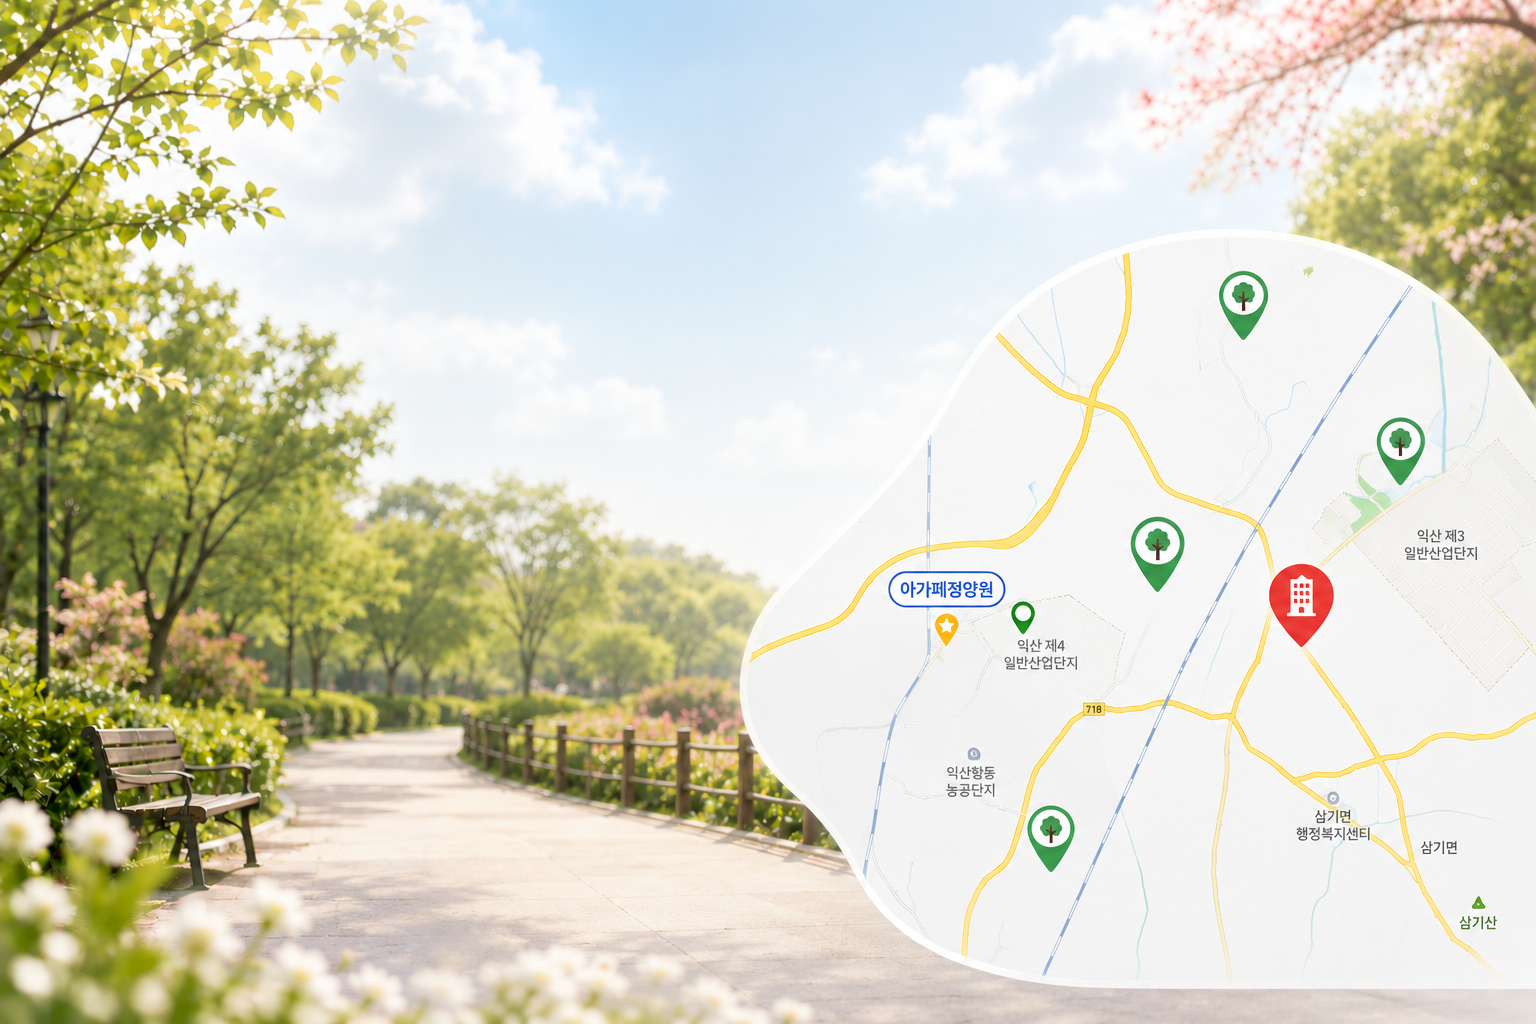
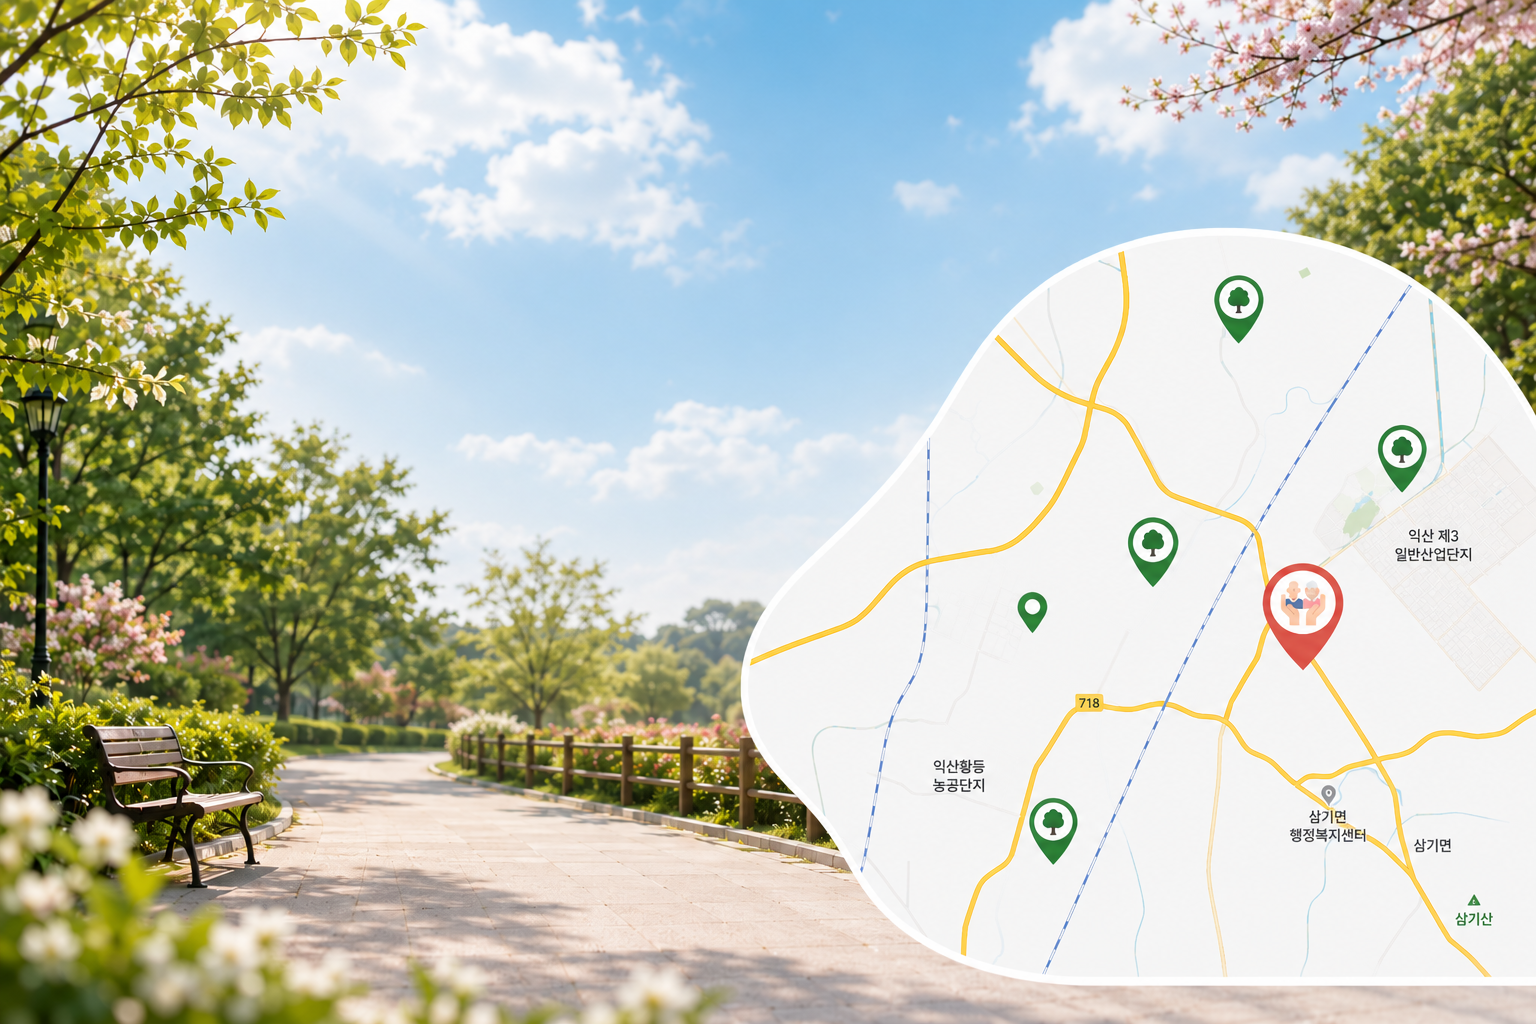
feat/#34

diff --git a/neulbomgil-frontend/src/pages/Home.jsx b/neulbomgil-frontend/src/pages/Home.jsx
@@ -1,17 +1,17 @@
 import { useState, useEffect } from "react";
 import styles from "./Home.module.css";
 import heroBg from "../assets/images/main/home-main.png";
-
+import infoIllust from "../assets/images/main/home-side.jpg";
 const features = [
   {
     icon: "🌳",
-    title: "나무로 보는 공원 환경 점수",
-    desc: "시설 주변의 공원 접근성을 나무 아이콘으로 표시하여 산책하기 좋은 시설 선택을 도와드립니다.",
+    title: "요양시설별 공원 접근성 점수 제공",
+    desc: "요양시설 반경 2km 내 공원 정보를 한눈에 확인할 수 있습니다",
   },
   {
     icon: "📍",
-    title: "지도 기반 시설 탐색",
-    desc: "원하는 지역을 검색하면 지도에서 한눈에 비교하고 확인할 수 있습니다.",
+    title: "지도 기반 요양시설 탐색",
+    desc: "원하는 지역을 검색하면 지도에서 한눈에 요양 시설을 확인할 수 있습니다.",
   },
   {
     icon: "💬",
@@ -34,7 +34,7 @@ export default function Home() {
       <section className={styles.hero}>
         {/* Background */}
         <div className={styles.heroBg}>
-              <img 
+            <img 
               src={heroBg}
               alt="배경"
               style={{ width: "100%", height: "100%", objectFit: "cover" }}/>
@@ -66,7 +66,7 @@ export default function Home() {
         <p className={styles.introText}>
           소중한 부모님의 노후를 위한 최선의 선택.<br/>
           <span className={styles.introTextDark}>
-            봄길요양은 공원 접근성·시설 정보·실시간 상담까지<br/>
+            봄길요양은 공원 접근성·시설 정보·커뮤니티까지<br/>
             필요한 모든 것을 한곳에 모았습니다.
           </span>
         </p>
@@ -96,53 +96,11 @@ export default function Home() {
         <div className={`${styles.sectionInner} ${styles.infoGrid}`}>
           {/* 일러스트 카드 */}
           <div className={styles.infoIllust}>
-            <svg viewBox="0 0 560 400" xmlns="http://www.w3.org/2000/svg"
-              style={{ width: "100%", height: "100%" }}>
-              <defs>
-                <linearGradient id="cardSky" x1="0" y1="0" x2="0" y2="1">
-                  <stop offset="0%"   stopColor="#7ec8a0"/>
-                  <stop offset="100%" stopColor="#a8ddb8"/>
-                </linearGradient>
-                <linearGradient id="cardGround" x1="0" y1="0" x2="0" y2="1">
-                  <stop offset="0%"   stopColor="#3a7a50"/>
-                  <stop offset="100%" stopColor="#2a5a3a"/>
-                </linearGradient>
-              </defs>
-              <rect width="560" height="400" fill="url(#cardSky)" rx="28"/>
-              <path d="M0,300 Q140,250 280,270 Q420,250 560,280 L560,400 L0,400 Z" fill="url(#cardGround)"/>
-              <path d="M0,340 Q140,310 280,325 Q420,310 560,330 L560,400 L0,400 Z" fill="#224838"/>
-              <rect x="220" y="290" width="120" height="8" rx="4" fill="#8b6340"/>
-              <rect x="228" y="298" width="8"   height="20" rx="3" fill="#7a5530"/>
-              <rect x="324" y="298" width="8"   height="20" rx="3" fill="#7a5530"/>
-              <rect x="216" y="278" width="128" height="7"  rx="3" fill="#a07848"/>
-              {[[80,240],[130,220],[460,235],[510,215]].map(([x,y],i) => (
-                <g key={i}>
-                  <rect x={x-5} y={y+36} width={10} height={36} rx={4} fill="#6b4226"/>
-                  <ellipse cx={x} cy={y}    rx={34} ry={44} fill="#2d7045" opacity="0.9"/>
-                  <ellipse cx={x} cy={y-14} rx={24} ry={32} fill="#3d8a55" opacity="0.85"/>
-                  <ellipse cx={x} cy={y-26} rx={16} ry={22} fill="#4da065" opacity="0.8"/>
-                </g>
-              ))}
-              {[[180,308],[200,312],[350,306],[370,310],[390,308]].map(([x,y],i) => (
-                <g key={i}>
-                  <circle cx={x} cy={y} r={5}   fill="#f9c0d0" opacity="0.9"/>
-                  <circle cx={x} cy={y} r={2.5} fill="#f4a0b0"/>
-                </g>
-              ))}
-              <ellipse cx="280" cy="370" rx="60" ry="20" fill="rgba(180,150,100,0.5)"/>
-              <circle cx="440" cy="70" r="38" fill="rgba(255,230,120,0.5)"/>
-              <circle cx="440" cy="70" r="26" fill="rgba(255,225,100,0.65)"/>
-              <circle cx="440" cy="70" r="16" fill="rgba(255,220,80,0.8)"/>
-              {[[150,70],[165,60],[178,72]].map(([x,y],i) => (
-                <path key={i} d={`M${x},${y} Q${x+6},${y-6} ${x+12},${y}`}
-                  stroke="rgba(255,255,255,0.7)" strokeWidth="1.5" fill="none" strokeLinecap="round"/>
-              ))}
-              <text x="50%" y="92%" textAnchor="middle"
-                style={{ font: "bold 15px 'Noto Sans KR', sans-serif" }}
-                fill="rgba(255,255,255,0.85)" letterSpacing="2">
-                봄날 같은 산책로를 함께
-              </text>
-            </svg>
+             <img 
+              src={infoIllust}
+              alt="배경"
+              style={{ width: "100%", height: "100%", objectFit: "cover" }}/>
+            
           </div>
 
           {/* 텍스트 */}
@@ -154,14 +112,14 @@ export default function Home() {
             </h2>
             <p className={styles.infoDesc}>
               요양시설을 선택할 때 가장 중요한 것 중 하나는 주변 환경입니다.
-              봄길요양은 각 시설의 공원 접근성을 직관적인 나무 점수로 안내하여,
+              봄길요양은 각 시설의 공원 접근성을 직관적인 나무 마크로 안내하여,
               어르신이 자연 속에서 산책하고 휴식할 수 있는 최적의 시설을
               쉽게 찾을 수 있도록 도와드립니다.
             </p>
             {[
-              "📍 지역별 시설 지도 탐색",
-              "🌳 공원 접근성 점수 제공",
-              "💬 전문 상담사 1:1 채팅",
+              "📍 지역별 시설과 가까운 공원 탐색",
+              "📢 커뮤니티 제공",
+              "💬 관리자와 1:1 채팅 제공",
             ].map((item, i, arr) => (
               <div key={i} className={styles.infoItem}
                 style={{ borderBottom: i < arr.length - 1 ? "1px solid #e8f4ee" : "none" }}>

diff --git a/neulbomgil-frontend/src/pages/Home.module.css b/neulbomgil-frontend/src/pages/Home.module.css
@@ -42,6 +42,7 @@
   position: absolute;
   inset: 0;
   z-index: 1;
+  background: rgba(0, 0, 0, 0.25); /* 숫자 올리면 더 어두워짐 */
 }
 
 /* Hero content – 기본은 숨김, .visible 추가 시 애니메이션 */
@@ -57,12 +58,12 @@
 .heroBadge {
   display: inline-flex;
   align-items: center;
-  gap: 8px;
+  gap: 20px;
   background: rgba(255,255,255,0.22);
-  border: 1px solid rgba(255,255,255,0.4);
+  border: 3px solid rgba(255,255,255,0.4);
   border-radius: 100px;
   padding: 8px 20px;
-  font-size: 14px;
+  font-size: 17px;
   font-weight: 500;
   color: #fff;
   margin-bottom: 28px;
@@ -93,12 +94,13 @@
 }
 
 .heroSub {
-  font-size: 20px;
-  font-weight: 500;
+  font-size: 25px;
+  font-weight: 700;
   color: rgba(255,255,255,0.88);
   letter-spacing: 1.5px;
   margin-bottom: 48px;
   line-height: 1.8;
+  text-shadow: 0 2px 24px rgba(0,0,0,0.30);
 }
 
 